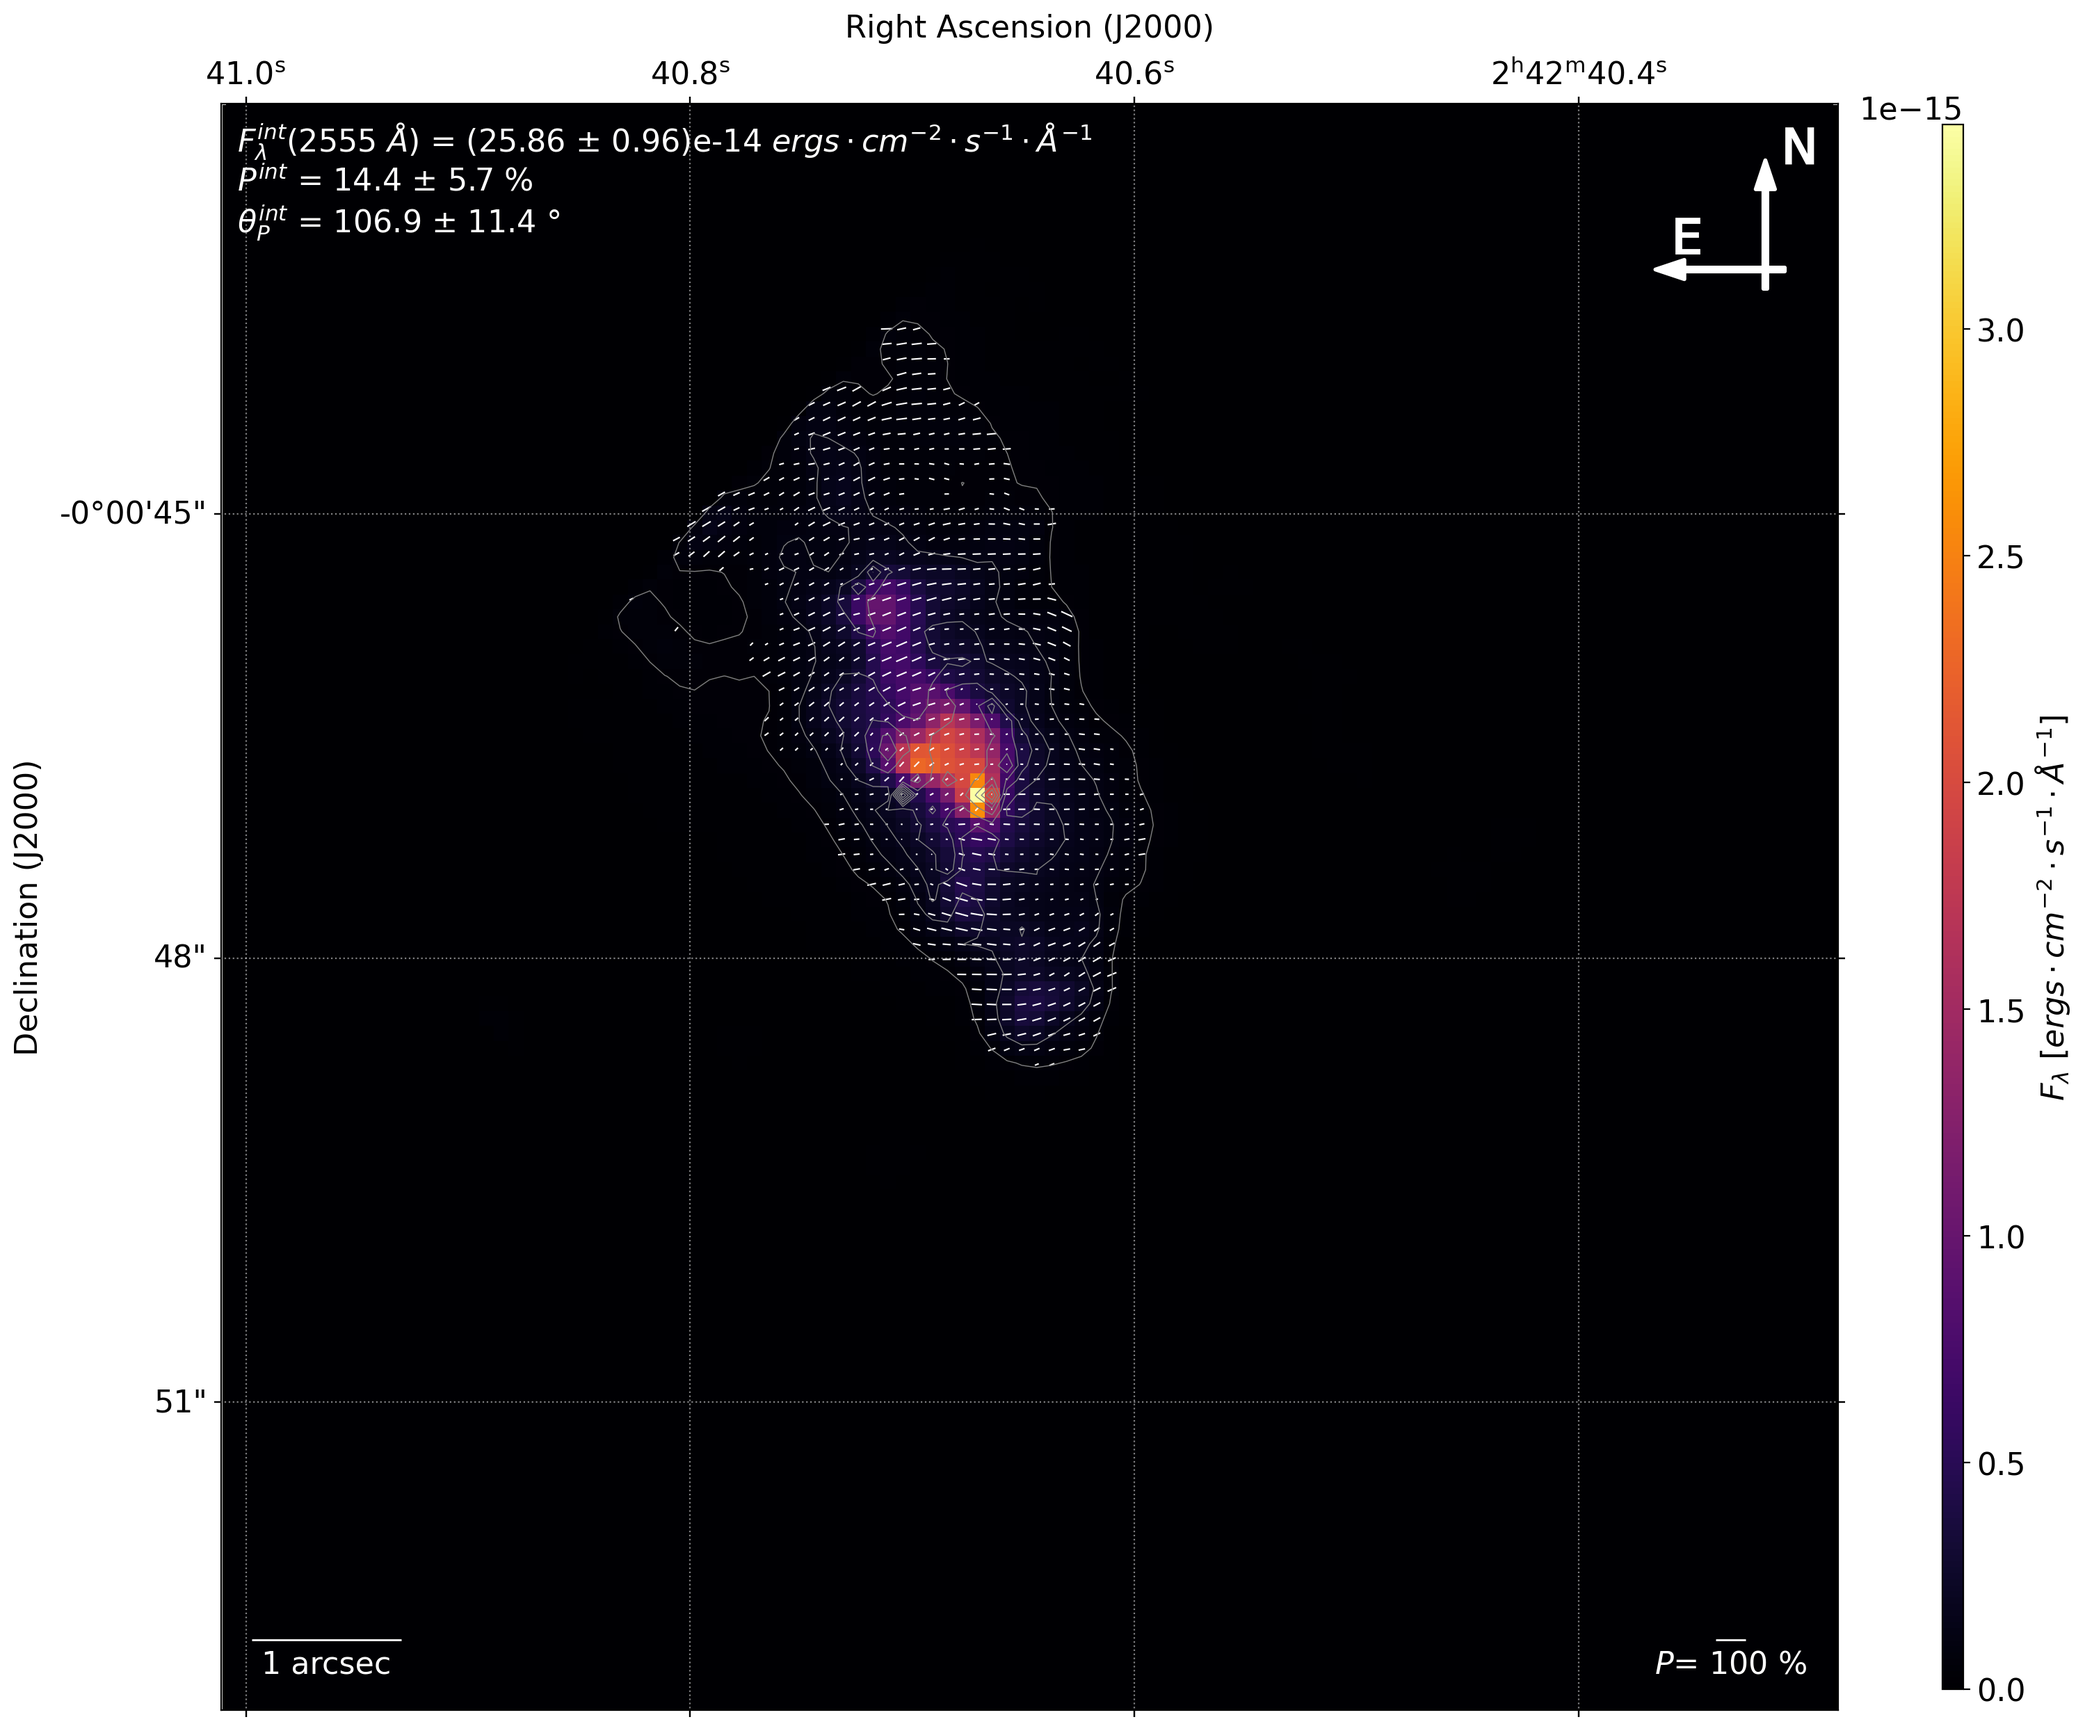
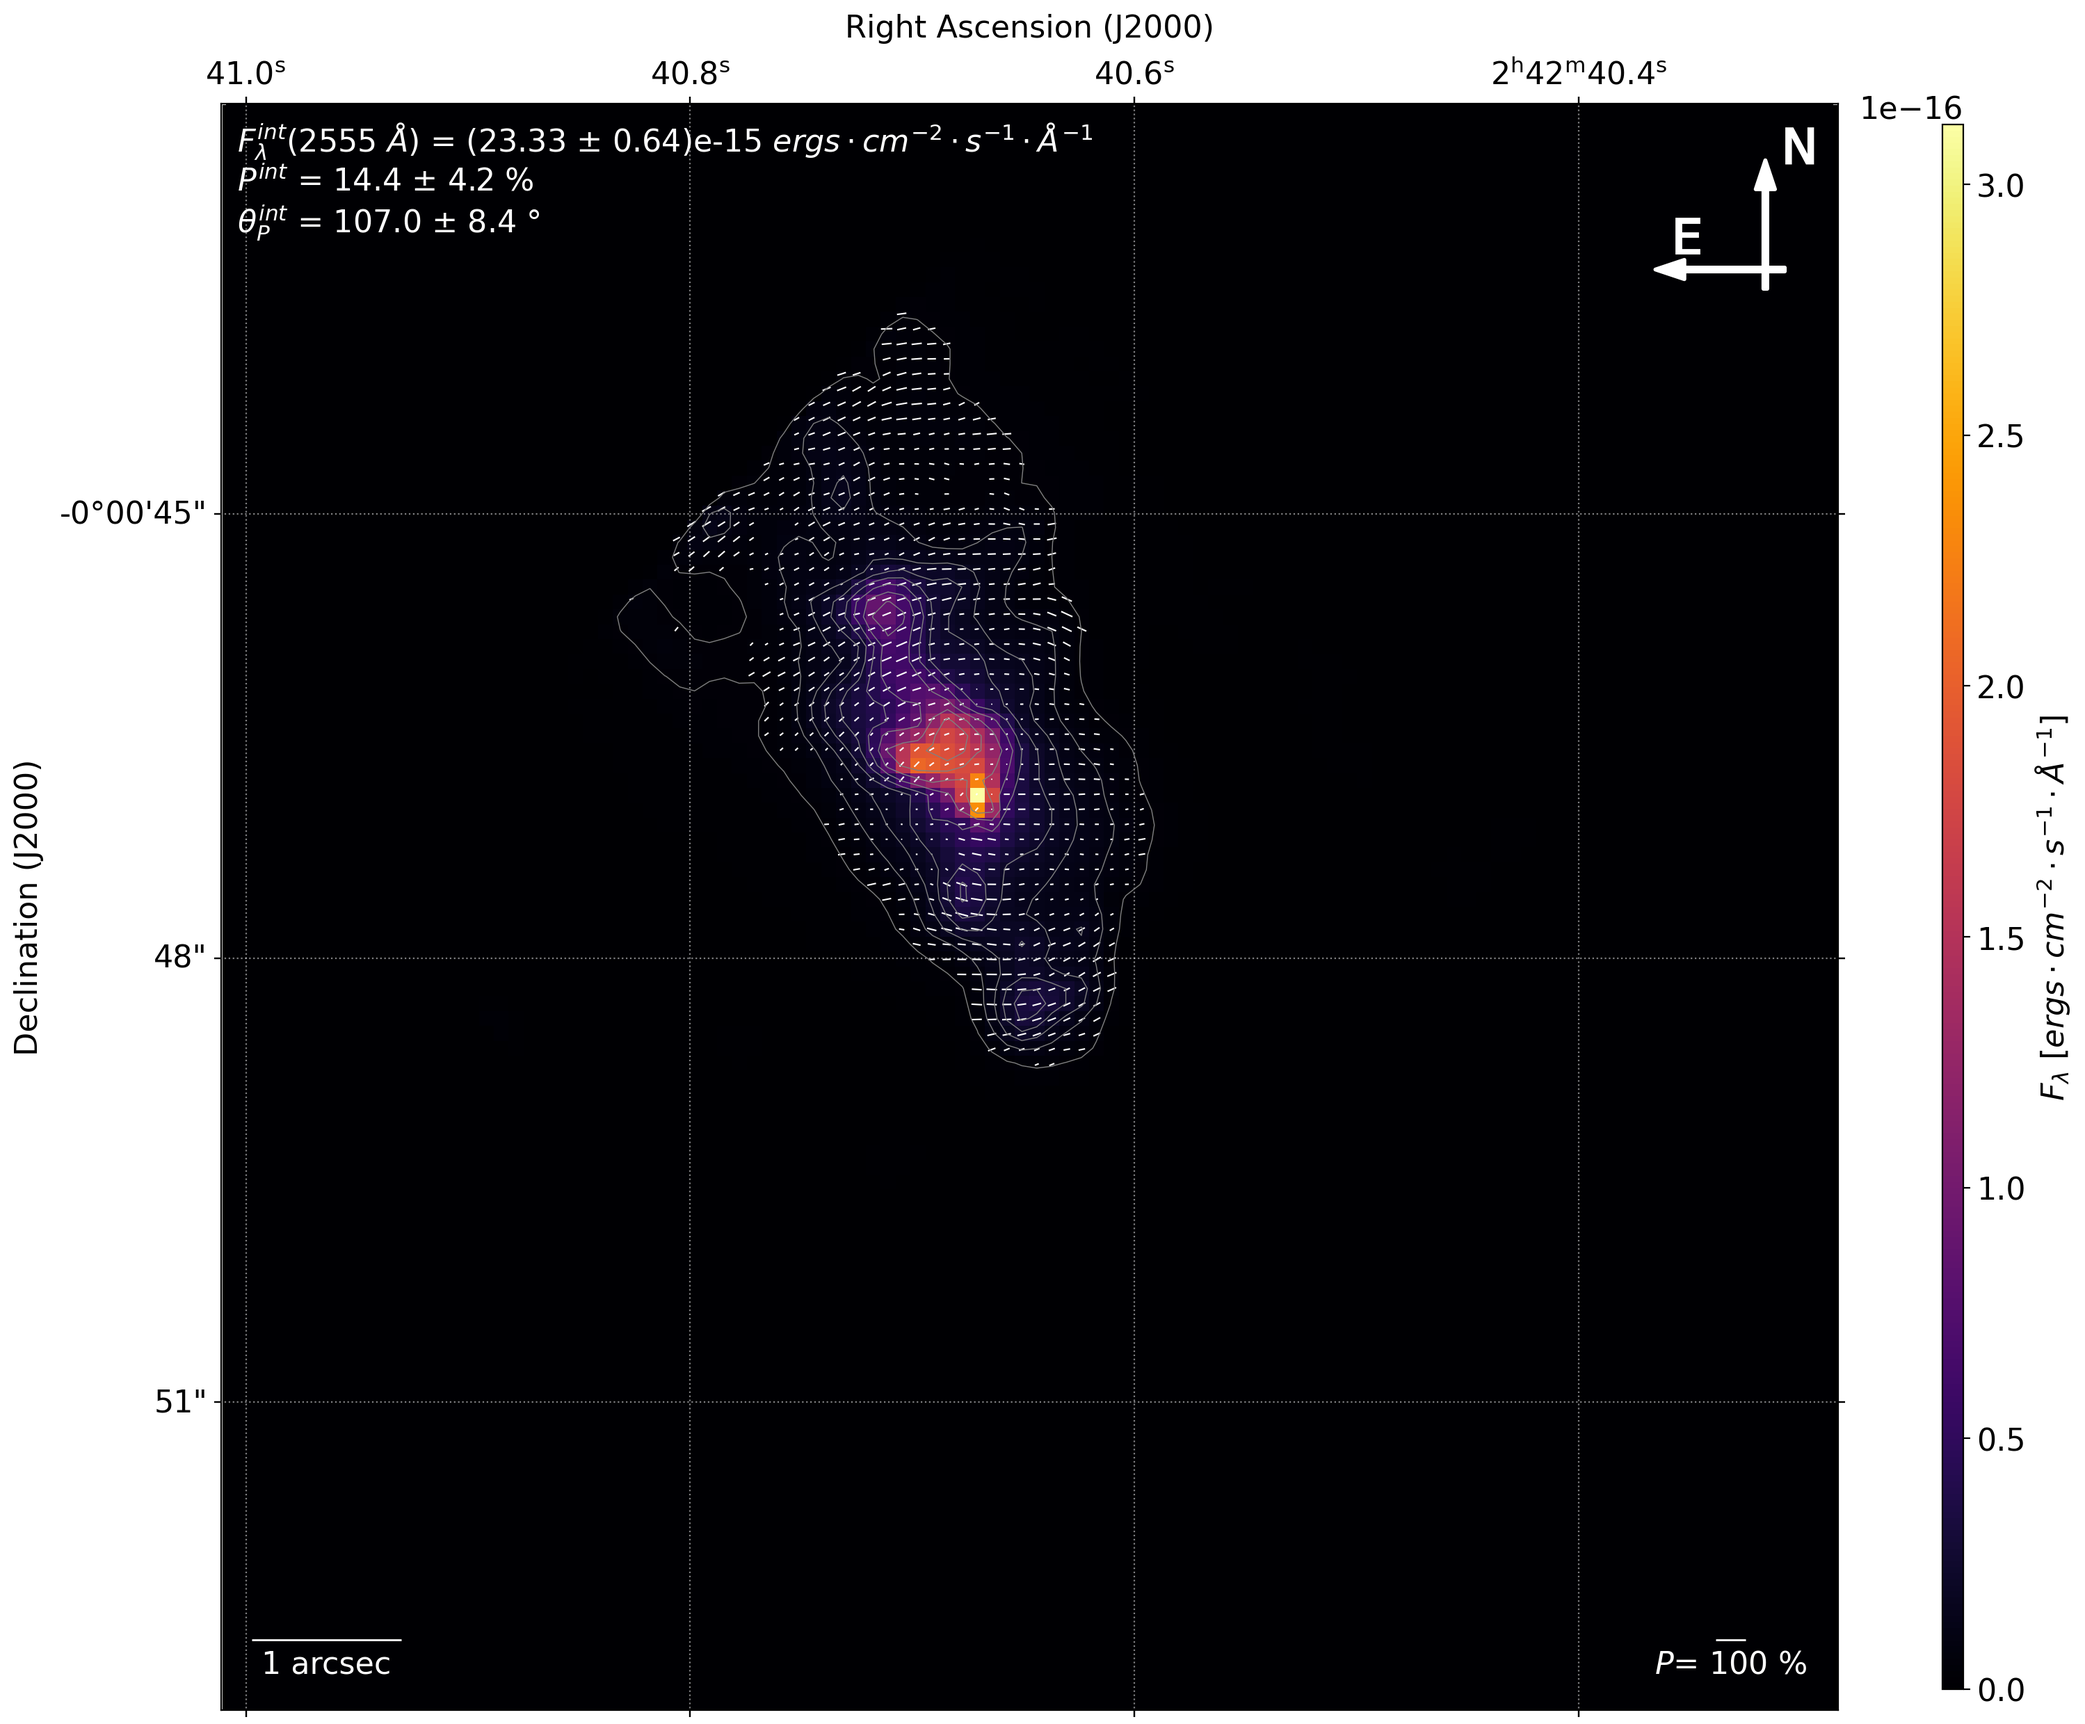
remove axis error computation on polarization components

diff --git a/src/lib/reduction.py b/src/lib/reduction.py
@@ -66,16 +66,6 @@ globals()['theta'] = np.array([180.*np.pi/180., 60.*np.pi/180., 120.*np.pi/180.]
 # Uncertainties on the orientation of the polarizers' axes taken to be 3deg (see Nota et. al 1996, p36; Robinson & Thomson 1995)
 globals()['sigma_theta'] = np.array([3.*np.pi/180., 3.*np.pi/180., 3.*np.pi/180.])
 
-def princ_angle(ang):
-    """
-    Return the principal angle in the 0-180° quadrant.
-    """
-    while ang < 0.:
-        ang += 180.
-    while ang > 180.:
-        ang -= 180.
-    return ang
-
 
 def get_row_compressor(old_dimension, new_dimension, operation='sum'):
     """
@@ -1068,7 +1058,7 @@ def compute_Stokes(data_array, error_array, data_mask, headers,
     # Routine for the FOC instrument
     if instr == 'FOC':
         # Get image from each polarizer and covariance matrix
-        pol_array, pol_cov_m = polarizer_avg(data_array, error_array, data_mask,
+        pol_array, pol_cov = polarizer_avg(data_array, error_array, data_mask,
                 headers, FWHM=FWHM, scale=scale, smoothing=smoothing)
         pol0, pol60, pol120 = pol_array
 
@@ -1103,15 +1093,14 @@ def compute_Stokes(data_array, error_array, data_mask, headers,
 
         # Orientation and error for each polarizer
         fmax = np.finfo(np.float64).max
-        pol_flux = 2.*np.array([pol0/transmit[0], pol60/transmit[1], pol120/transmit[2]])#np.array([pol0, pol60, pol120])#
-        pol_cov = np.array([[4.*pol_cov_m[i,j]/(transmit[i]*transmit[j]) for j in range(pol_cov_m.shape[1])] for i in range(pol_cov_m.shape[0])])
+        pol_flux = np.array([pol0, pol60, pol120])
 
         coeff_stokes = np.zeros((3,3))
         # Coefficients linking each polarizer flux to each Stokes parameter
         for i in range(3):
-            coeff_stokes[0,i] = pol_eff[(i+1)%3]*pol_eff[(i+2)%3]*np.sin(-2.*theta[(i+1)%3]+2.*theta[(i+2)%3])#*2./transmit[i]
-            coeff_stokes[1,i] = (-pol_eff[(i+1)%3]*np.sin(2.*theta[(i+1)%3]) + pol_eff[(i+2)%3]*np.sin(2.*theta[(i+2)%3]))#*2./transmit[i]
-            coeff_stokes[2,i] = (pol_eff[(i+1)%3]*np.cos(2.*theta[(i+1)%3]) - pol_eff[(i+2)%3]*np.cos(2.*theta[(i+2)%3]))#*2./transmit[i]
+            coeff_stokes[0,i] = pol_eff[(i+1)%3]*pol_eff[(i+2)%3]*np.sin(-2.*theta[(i+1)%3]+2.*theta[(i+2)%3])*2./transmit[i]
+            coeff_stokes[1,i] = (-pol_eff[(i+1)%3]*np.sin(2.*theta[(i+1)%3]) + pol_eff[(i+2)%3]*np.sin(2.*theta[(i+2)%3]))*2./transmit[i]
+            coeff_stokes[2,i] = (pol_eff[(i+1)%3]*np.cos(2.*theta[(i+1)%3]) - pol_eff[(i+2)%3]*np.cos(2.*theta[(i+2)%3]))*2./transmit[i]
 
         # Normalization parameter for Stokes parameters computation
         A = coeff_stokes[0,:].sum()
@@ -1157,24 +1146,6 @@ def compute_Stokes(data_array, error_array, data_mask, headers,
         dU_dtheta3 = 2.*pol_eff[2]/A*(np.sin(2.*theta[2])*(pol_flux[0]-pol_flux[1]) - (pol_eff[1]*np.cos(-2.*theta[1]+2.*theta[2]) - pol_eff[0]*np.cos(-2.*theta[2]+2.*theta[0]))*U_stokes)
         dU_dtheta = np.array([dU_dtheta1, dU_dtheta2, dU_dtheta3])
         
-        # Compute the derivative of each polarization component with respect to the polarizer orientation
-        mask = I_stokes > 0.
-        dP_dtheta1 = np.zeros(I_stokes.shape)*fmax
-        dP_dtheta2 = np.zeros(I_stokes.shape)*fmax
-        dP_dtheta3 = np.zeros(I_stokes.shape)*fmax
-        dP_dtheta1[mask] = 1./(I_stokes[mask]*np.sqrt(Q_stokes[mask]**2 + U_stokes[mask]**2))*(Q_stokes[mask]*dQ_dtheta1[mask] + U_stokes[mask]*dQ_dtheta1[mask]) - 1./I_stokes[mask]**2 * dI_dtheta1[mask]
-        dP_dtheta2[mask] = 1./(I_stokes[mask]*np.sqrt(Q_stokes[mask]**2 + U_stokes[mask]**2))*(Q_stokes[mask]*dQ_dtheta2[mask] + U_stokes[mask]*dQ_dtheta2[mask]) - 1./I_stokes[mask]**2 * dI_dtheta2[mask]
-        dP_dtheta3[mask] = 1./(I_stokes[mask]*np.sqrt(Q_stokes[mask]**2 + U_stokes[mask]**2))*(Q_stokes[mask]*dQ_dtheta3[mask] + U_stokes[mask]*dQ_dtheta3[mask]) - 1./I_stokes[mask]**2 * dI_dtheta3[mask]
-        dP_dtheta = np.array([dP_dtheta1, dP_dtheta2, dP_dtheta3])
-
-        dPA_dtheta1 = np.zeros(I_stokes.shape)*fmax
-        dPA_dtheta2 = np.zeros(I_stokes.shape)*fmax
-        dPA_dtheta3 = np.zeros(I_stokes.shape)*fmax
-        dPA_dtheta1[mask] = 90./np.pi*1./(U_stokes[mask]**2 + Q_stokes[mask]**2)*(Q_stokes[mask]*dU_dtheta1[mask] - U_stokes[mask]*dQ_dtheta1[mask])
-        dPA_dtheta2[mask] = 90./np.pi*1./(U_stokes[mask]**2 + Q_stokes[mask]**2)*(Q_stokes[mask]*dU_dtheta2[mask] - U_stokes[mask]*dQ_dtheta2[mask])
-        dPA_dtheta3[mask] = 90./np.pi*1./(U_stokes[mask]**2 + Q_stokes[mask]**2)*(Q_stokes[mask]*dU_dtheta3[mask] - U_stokes[mask]*dQ_dtheta3[mask])
-        dPA_dtheta = np.array([dPA_dtheta1, dPA_dtheta2, dPA_dtheta3])
-
         # Compute the uncertainty associated with the polarizers' orientation (see Kishimoto 1999)
         s_I2_axis = np.sum([dI_dtheta[i]**2 * sigma_theta[i]**2 for i in range(len(sigma_theta))],axis=0)
         s_Q2_axis = np.sum([dQ_dtheta[i]**2 * sigma_theta[i]**2 for i in range(len(sigma_theta))],axis=0)
@@ -1196,10 +1167,10 @@ def compute_Stokes(data_array, error_array, data_mask, headers,
             I_stokes, Q_stokes, U_stokes = Stokes_array
             Stokes_cov[0,0], Stokes_cov[1,1], Stokes_cov[2,2] = Stokes_error**2
 
-    return I_stokes, Q_stokes, U_stokes, Stokes_cov, dP_dtheta, dPA_dtheta
+    return I_stokes, Q_stokes, U_stokes, Stokes_cov
 
 
-def compute_pol(I_stokes, Q_stokes, U_stokes, Stokes_cov, dP_dtheta, dPA_dtheta, headers):
+def compute_pol(I_stokes, Q_stokes, U_stokes, Stokes_cov, headers):
     """
     Compute the polarization degree (in %) and angle (in deg) and their
     respective errors from given Stokes parameters.
@@ -1260,14 +1231,6 @@ def compute_pol(I_stokes, Q_stokes, U_stokes, Stokes_cov, dP_dtheta, dPA_dtheta,
     # Propagate previously computed errors
     s_P[mask] = (1/I_stokes[mask])*np.sqrt((Q_stokes[mask]**2*Stokes_cov[1,1][mask] + U_stokes[mask]**2*Stokes_cov[2,2][mask] + 2.*Q_stokes[mask]*U_stokes[mask]*Stokes_cov[1,2][mask])/(Q_stokes[mask]**2 + U_stokes[mask]**2) + ((Q_stokes[mask]/I_stokes[mask])**2 + (U_stokes[mask]/I_stokes[mask])**2)*Stokes_cov[0,0][mask] - 2.*(Q_stokes[mask]/I_stokes[mask])*Stokes_cov[0,1][mask] - 2.*(U_stokes[mask]/I_stokes[mask])*Stokes_cov[0,2][mask])
     s_PA[mask] = (90./(np.pi*(Q_stokes[mask]**2 + U_stokes[mask]**2)))*np.sqrt(U_stokes[mask]**2*Stokes_cov[1,1][mask] + Q_stokes[mask]**2*Stokes_cov[2,2][mask] - 2.*Q_stokes[mask]*U_stokes[mask]*Stokes_cov[1,2][mask])
-    # Compute the uncertainty associated with the polarizers' orientation (see Kishimoto 1999)
-    s_P_axis = np.sqrt(np.sum([dP_dtheta[i]**2 * sigma_theta[i]**2 for i in range(len(sigma_theta))], axis=0))
-    s_PA_axis = np.sqrt(np.sum([dPA_dtheta[i]**2 * sigma_theta[i]**2 for i in range(len(sigma_theta))], axis=0))
-    # Add axis uncertainties quadratically
-    with warnings.catch_warnings(record=True) as w:
-        s_P[mask] = np.sqrt(s_P[mask]**2 + s_P_axis[mask]**2)
-        s_PA[mask] = np.sqrt(s_PA[mask]**2 + s_PA_axis[mask]**2)
-
     s_P[np.isnan(s_P)] = fmax
     s_PA[np.isnan(s_PA)] = fmax
 
@@ -1303,7 +1266,7 @@ def compute_pol(I_stokes, Q_stokes, U_stokes, Stokes_cov, dP_dtheta, dPA_dtheta,
     return P, debiased_P, s_P, s_P_P, PA, s_PA, s_PA_P
 
 
-def rotate_Stokes(I_stokes, Q_stokes, U_stokes, Stokes_cov, dP_dtheta, dPA_dtheta, data_mask, headers, ang, SNRi_cut=None):
+def rotate_Stokes(I_stokes, Q_stokes, U_stokes, Stokes_cov, data_mask, headers, ang, SNRi_cut=None):
     """
     Use scipy.ndimage.rotate to rotate I_stokes to an angle, and a rotation
     matrix to rotate Q, U of a given angle in degrees and update header
@@ -1386,13 +1349,6 @@ def rotate_Stokes(I_stokes, Q_stokes, U_stokes, Stokes_cov, dP_dtheta, dPA_dthet
         new_Stokes_cov[i,i] = np.abs(new_Stokes_cov[i,i])
     center = np.array(new_I_stokes.shape)/2
 
-    #Compute new derivatives of P, PA on rotated parameters
-    new_dP_dtheta = deepcopy(dP_dtheta)
-    new_dPA_dtheta = deepcopy(dPA_dtheta)
-    for i in range(len(dP_dtheta)):
-        new_dP_dtheta[i] = sc_rotate(dP_dtheta[i], ang, reshape=False, cval=0.)
-        new_dPA_dtheta[i] = sc_rotate(dPA_dtheta[i], ang, reshape=False, cval=0.)
-    
     #Update headers to new angle
     new_headers = []
     mrot = np.array([[np.cos(-alpha), -np.sin(-alpha)],
@@ -1435,7 +1391,7 @@ def rotate_Stokes(I_stokes, Q_stokes, U_stokes, Stokes_cov, dP_dtheta, dPA_dthet
     new_U_stokes[np.isnan(new_U_stokes)] = 0.
     new_Stokes_cov[np.isnan(new_Stokes_cov)] = fmax
 
-    return new_I_stokes, new_Q_stokes, new_U_stokes, new_Stokes_cov, new_dP_dtheta, new_dPA_dtheta, new_headers, new_data_mask
+    return new_I_stokes, new_Q_stokes, new_U_stokes, new_Stokes_cov, new_headers, new_data_mask
 
 def rotate_data(data_array, error_array, data_mask, headers, ang):
     """

diff --git a/src/FOC_reduction.py b/src/FOC_reduction.py
@@ -105,7 +105,7 @@ def main():
     align_center = 'image'        #If None will align image to image center
     display_data = False
     # Smoothing
-    smoothing_function = 'combine'  #gaussian_after, gaussian or combine
+    smoothing_function = 'gaussian'  #gaussian_after, gaussian or combine
     smoothing_FWHM = 0.20           #If None, no smoothing is done
     smoothing_scale = 'arcsec'       #pixel or arcsec
     # Rotation
@@ -113,7 +113,7 @@ def main():
     rotate_data = False              #rotation to North convention can give erroneous results
     # Polarization map output
     figname = 'NGC1068_FOC'         #target/intrument name
-    figtype = '_combine_FWHM020_waeP'    #additionnal informations
+    figtype = '_combine_FWHM020_wae'    #additionnal informations
     SNRp_cut = 3.    #P measurments with SNR>3
     SNRi_cut = 30.   #I measurments with SNR>30, which implies an uncertainty in P of 4.7%.
     step_vec = 1    #plot all vectors in the array. if step_vec = 2, then every other vector will be plotted
@@ -182,7 +182,7 @@ def main():
     # FWHM of FOC have been estimated at about 0.03" across 1500-5000 Angstrom band, which is about 2 detector pixels wide
     # see Jedrzejewski, R.; Nota, A.; Hack, W. J., A Comparison Between FOC and WFPC2
     # Bibcode : 1995chst.conf...10J
-    I_stokes, Q_stokes, U_stokes, Stokes_cov, dP_dtheta, dPA_dtheta = proj_red.compute_Stokes(data_array, error_array, data_mask, headers, FWHM=smoothing_FWHM, scale=smoothing_scale, smoothing=smoothing_function)
+    I_stokes, Q_stokes, U_stokes, Stokes_cov = proj_red.compute_Stokes(data_array, error_array, data_mask, headers, FWHM=smoothing_FWHM, scale=smoothing_scale, smoothing=smoothing_function)
 
     ## Step 3:
     # Rotate images to have North up
@@ -193,9 +193,9 @@ def main():
             [np.sin(-alpha), np.cos(-alpha)]])
         rectangle[0:2] = np.dot(mrot, np.asarray(rectangle[0:2]))+np.array(data_array.shape[1:])/2
         rectangle[4] = alpha
-        I_stokes, Q_stokes, U_stokes, Stokes_cov, dP_dtheta, dPA_dtheta, headers, data_mask = proj_red.rotate_Stokes(I_stokes, Q_stokes, U_stokes, Stokes_cov, dP_dtheta, dPA_dtheta, data_mask, headers, -ref_header['orientat'], SNRi_cut=None)
+        I_stokes, Q_stokes, U_stokes, Stokes_cov, headers, data_mask = proj_red.rotate_Stokes(I_stokes, Q_stokes, U_stokes, Stokes_cov, data_mask, headers, -ref_header['orientat'], SNRi_cut=None)
     # Compute polarimetric parameters (polarization degree and angle).
-    P, debiased_P, s_P, s_P_P, PA, s_PA, s_PA_P = proj_red.compute_pol(I_stokes, Q_stokes, U_stokes, Stokes_cov, dP_dtheta, dPA_dtheta, headers)
+    P, debiased_P, s_P, s_P_P, PA, s_PA, s_PA_P = proj_red.compute_pol(I_stokes, Q_stokes, U_stokes, Stokes_cov, headers)
 
     ## Step 4:
     # crop to desired region of interest (roi)
